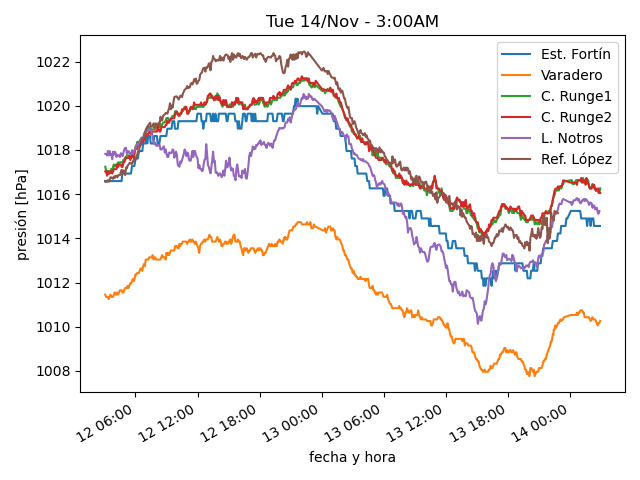
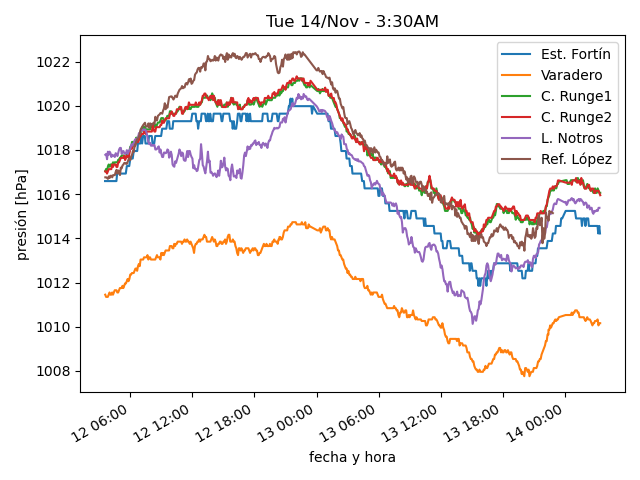
actualiza datos

diff --git a/estaciones/estacion2.html b/estaciones/estacion2.html
@@ -18,32 +18,32 @@
     </tr>
     <tr>
      <td class="stats_data">
-      2:54AM
+      3:24AM
      </td>
     </tr>
     <tr>
      <td class="stats_data">
-      4.0⁰C
+      3.2⁰C
      </td>
     </tr>
     <tr>
      <td class="stats_data">
-      -0.6⁰C
+      -2.5⁰C
      </td>
     </tr>
     <tr>
      <td class="stats_data">
-      72.0%
+      66.4%
      </td>
     </tr>
     <tr>
      <td class="stats_data">
-      1019.74hPa
+      1019.64hPa
      </td>
     </tr>
     <tr>
      <td class="stats_data">
-      10.6/15.4 km/hr W
+      8.3/12.7 km/hr W
      </td>
     </tr>
     <tr>

diff --git a/estaciones/estacion3.html b/estaciones/estacion3.html
@@ -18,32 +18,32 @@
     </tr>
     <tr>
      <td class="stats_data">
-      2:54AM
+      3:24AM
      </td>
     </tr>
     <tr>
      <td class="stats_data">
-      1.4⁰C
+      1.5⁰C
      </td>
     </tr>
     <tr>
      <td class="stats_data">
-      -2.9⁰C
+      -3.4⁰C
      </td>
     </tr>
     <tr>
      <td class="stats_data">
-      73.0%
+      70.1%
      </td>
     </tr>
     <tr>
      <td class="stats_data">
-      1004.54hPa
+      1004.34hPa
      </td>
     </tr>
     <tr>
      <td class="stats_data">
-      7.3/9.9 km/hr SW
+      5.3/7.6 km/hr WSW
      </td>
     </tr>
     <tr>

diff --git a/estaciones/estacion1.html b/estaciones/estacion1.html
@@ -18,17 +18,17 @@
     </tr>
     <tr>
      <td class="stats_data">
-      2:53AM
+      3:23AM
      </td>
     </tr>
     <tr>
      <td class="stats_data">
-      2.4⁰C
+      2.3⁰C
      </td>
     </tr>
     <tr>
      <td class="stats_data">
-      -3.5⁰C
+      -3.6⁰C
      </td>
     </tr>
     <tr>
@@ -38,12 +38,12 @@
     </tr>
     <tr>
      <td class="stats_data">
-      1014.56hPa
+      1014.22hPa
      </td>
     </tr>
     <tr>
      <td class="stats_data">
-      13.7/33.8 km/hr W
+      14.4/27.4 km/hr W
      </td>
     </tr>
     <tr>

diff --git a/estaciones/estacion4.html b/estaciones/estacion4.html
@@ -18,7 +18,7 @@
     </tr>
     <tr>
      <td class="stats_data">
-      2:54AM
+      3:24AM
      </td>
     </tr>
     <tr>
@@ -28,22 +28,22 @@
     </tr>
     <tr>
      <td class="stats_data">
-      -3.8⁰C
+      -4.2⁰C
      </td>
     </tr>
     <tr>
      <td class="stats_data">
-      69.3%
+      67.0%
      </td>
     </tr>
     <tr>
      <td class="stats_data">
-      1013.04hPa
+      1012.94hPa
      </td>
     </tr>
     <tr>
      <td class="stats_data">
-      3.0/4.5 km/hr WSW
+      1.9/3.1 km/hr SW
      </td>
     </tr>
     <tr>

diff --git a/estaciones/estacion5.html b/estaciones/estacion5.html
@@ -18,27 +18,27 @@
     </tr>
     <tr>
      <td class="stats_data">
-      2:50AM
+      3:20AM
      </td>
     </tr>
     <tr>
      <td class="stats_data">
-      2.0⁰C
+      1.6⁰C
      </td>
     </tr>
     <tr>
      <td class="stats_data">
-      -2.9⁰C
+      -3.1⁰C
      </td>
     </tr>
     <tr>
      <td class="stats_data">
-      70.0%
+      71.0%
      </td>
     </tr>
     <tr>
      <td class="stats_data">
-      1017.81hPa
+      1017.95hPa
      </td>
     </tr>
     <tr>
